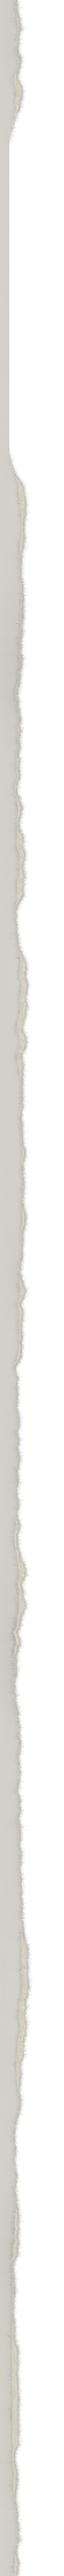
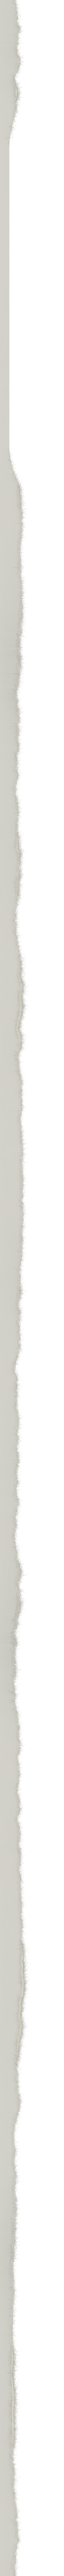
fix(work): bare the poster's white core only in narrow stretches of its tear
The white rim ran the whole length of the tear, up to 1.5 mm wide, and read as an outline. A poster's paper is thin,
so its core holds on past the print by at most 0.6 mm and only where the tear ran that way; elsewhere print and core
gave way together and the edge is the print's own, with only a stray fibre past it.

Changed region(s): [[0.1875, 0.1875, 0.4688, 1.0], [0.2188, 0.0, 0.375, 0.0625]]

diff --git a/studio/poster/tear.py b/studio/poster/tear.py
@@ -9,9 +9,10 @@ all leaves on the mat, in place of SiteShell's drawn tear.
 
 Paper torn by hand does not part on one line. The printed face gives way first, on a line that wanders at every
 scale, from the slow swing of the hand down to the single fibre, never in even teeth. Below it the sheet splits
-through its thickness and its core holds on further, so past the print runs a rim of bare white paper, thinning as it
-goes, wide where the tear ran one way and gone where it ran the other, and fibres pulled out of it lie loose past
-it, most of them straight out from it, the way they were pulled. The torn strip lifts a little off the mat.
+through its thickness, and in stretches its core holds on further, so past the print runs a narrow rim of bare
+white paper, a poster's paper being thin, thinning as it goes, there where the tear ran one way and gone where it
+ran the other, and fibres pulled out of it lie loose past it, most of them straight out from it, the way they were
+pulled. Where print and core gave way together the edge is the print's own, with only a stray fibre. The torn strip lifts a little off the mat.
 
 This lays that out at the scale the mat's rulers are printed at (24 CSS px to the cm, MM px to the mm): the print's
 line, the rim and its fibres, each fibre as long and fine as paper's own, and tear_render.py renders it in Blender
@@ -54,7 +55,7 @@ MARGIN = 16  # rows rendered above and below one length, for the seam
 LINE, SWING = 5.0, 3.6
 # Its wander at each scale, in CSS px across and how much: rougher the finer, but never in even teeth.
 OCTAVES = ((90, 1.0), (30, 0.6), (10, 0.5), (3.5, 0.38), (1.2, 0.2), (0.4, 0.08))
-RIM = 3.6  # how wide the bared paper runs past the print at most, in CSS px (1.5 mm)
+RIM = 1.4  # how wide the bared paper runs past the print at most, in CSS px (0.6 mm): a poster's paper is thin
 EASE = 36  # over how many px the tear settles into the straight edge at the tab, as SiteShell's does
 PAPER = (0.93, 0.92, 0.89)  # the poster's paper, bare, as it shows on the page: white, a little warm
 # The fibres: length and width in mm (median, lognormal spread); a single one lets THROUGH of the light past it.
@@ -81,9 +82,10 @@ def lines(layout, rng):
         f = np.clip(np.maximum(start - y, y - end) / EASE, 0, 1)
         settled = np.minimum(settled, f * f * (3 - 2 * f))
     line = settled * (LINE + SWING * np.tanh(wander / 1.6))
-    # The rim: wide where the tear ran so the core held on, a hair where it ran the other way.
-    hold = np.clip(0.35 + 0.5 * octave(rng, 22, FIELD) + 0.3 * octave(rng, 5, FIELD), 0, 1)
-    rim = settled * (0.25 + (RIM - 0.25) * hold**1.6)
+    # The rim: there where the tear ran so the core held on.
+    # Only in stretches: elsewhere the print and the core gave way together, and the edge is the print's own.
+    hold = np.clip(-0.2 + 0.6 * octave(rng, 22, FIELD) + 0.3 * octave(rng, 5, FIELD), 0, 1)
+    rim = settled * RIM * hold**1.3
     lift = np.interp(y, np.arange(TEAR_LENGTH + 1), curl(calm_of(layout), rng))
     return line, line + rim, settled, lift
 
@@ -107,6 +109,7 @@ def fibres(rng, cx, cy, heading, length, width, points=8):
 def tear(layout, samples, proof):
     rng = np.random.default_rng(83 if layout == "wide" else 89)
     line, core, settled, lift = lines(layout, rng)
+    rim = core - line
     rows = len(line)
 
     def raised(x, at):
@@ -117,7 +120,10 @@ def tear(layout, samples, proof):
     # from just under the print's edge out. Those by the edge lie along it as often as not; the rest any way.
     x = np.arange(-2 * FIELD, 24 * FIELD) / FIELD + 0.5 / FIELD
     d = core[:, None] - x[None, :]
-    density = PER_PX / (1 + np.exp(-d / THIN)) * (x[None, :] > line[:, None] - 1.0) * settled[:, None] ** 0.5
+    # Past the print, only as many as the core held on there: where the two gave way together, a few stray ones.
+    bared = np.clip(rim / 0.6, 0.12, 1)[:, None]
+    past = np.where(x[None, :] > line[:, None], bared, 1.0)
+    density = PER_PX / (1 + np.exp(-d / THIN)) * past * (x[None, :] > line[:, None] - 1.0) * settled[:, None] ** 0.5
     n = rng.poisson(density / FIELD**2)
     r, c = np.nonzero(n)
     r, c = np.repeat(r, n[r, c]), np.repeat(c, n[r, c])
@@ -133,7 +139,7 @@ def tear(layout, samples, proof):
     # The pulled fibres: rooted in the core, lying out past it, straight out more or less.
     count = rng.poisson(PULLED * TEAR_LENGTH)
     at = rng.integers(0, rows, count)
-    keep = rng.random(count) < settled[at]
+    keep = rng.random(count) < settled[at] * np.clip(rim[at] / 0.6, 0.15, 1)
     at = at[keep]
     root = core[at] - rng.uniform(0.2, 1.2, len(at))
     heading = rng.normal(0, 0.55, len(at))
